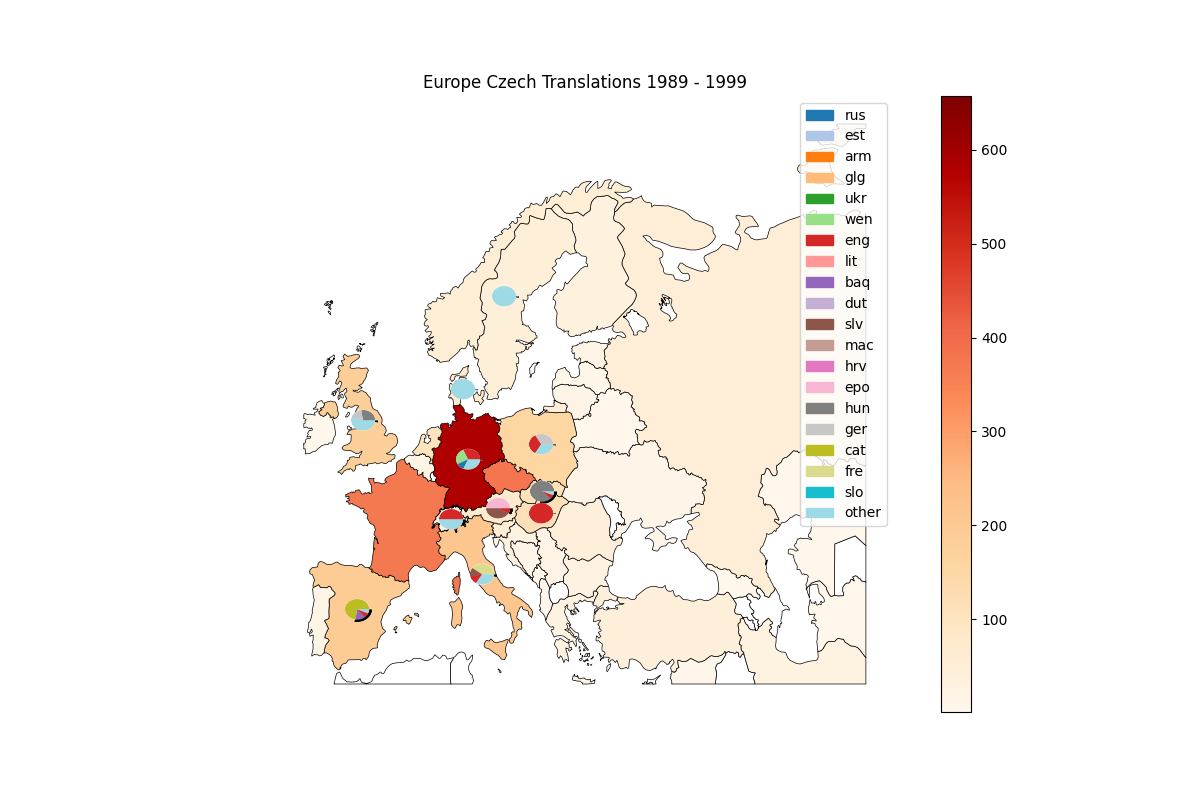
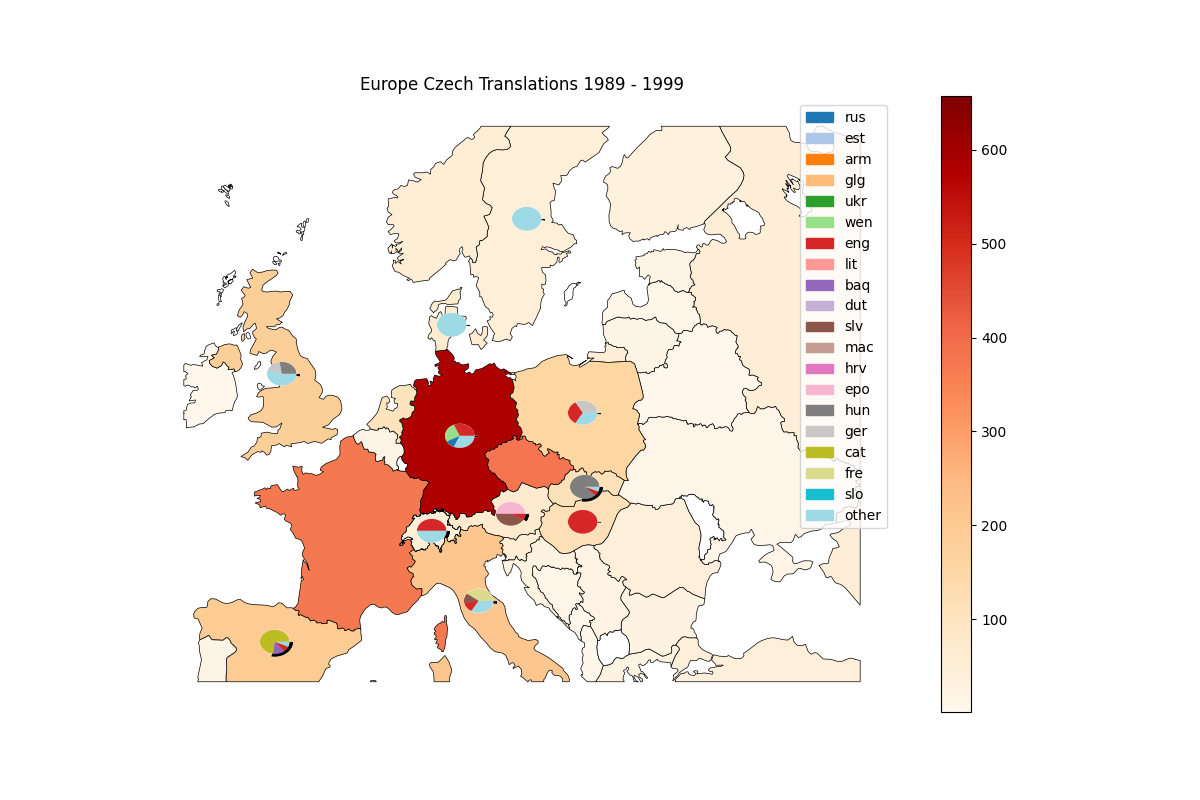
modified charts
new bbox

Changed region(s): [[0.1542, 0.125, 0.74, 0.875], [0.3083, 0.0938, 0.6167, 0.125], [0.185, 0.5625, 0.2158, 0.5938]]

diff --git a/plot_map_with_chart.py b/plot_map_with_chart.py
@@ -12,7 +12,7 @@ import matplotlib.patches as mpatches
 folder_path = "C:/Users/Panuskova/Nextcloud/translation-mapping/historical-basemaps/years"
 
  # Bounding box of the map - Europe
-bbox =  [-10, 35, 60, 75] # [minx, miny, maxx, maxy] - minimal longitude, minimal latitude, maximal longitude, maximal latitude
+bbox =  [-10, 40, 40, 65] #[-10, 35, 60, 75] # [minx, miny, maxx, maxy] - minimal longitude, minimal latitude, maximal longitude, maximal latitude
 
 # Path to the infos about translations  
 geotagged_df = pd.read_excel("geotagged/geotagged_hist_country.xlsx")
@@ -56,7 +56,7 @@ norm = colors.Normalize(vmin=vmin, vmax=vmax)
 ############# FOR CHARTS ################
 
 # Radius of the charts
-RADIUS = 1.5
+RADIUS = 1.1
 
 # folder with charts
 piechart_folder = 'plots\\pie charts minor top 19 languages plain\\'
@@ -153,9 +153,6 @@ for idx,map_year in enumerate(years):
                 # Get the latitude and longitude of the centroid
                 lat = centroid.y
                 lon = centroid.x
-
-                if country == "Sweden":
-                    lon -=1.8 
 
             # show image at the latitude and longitude of the plot
             im = ax.imshow(
